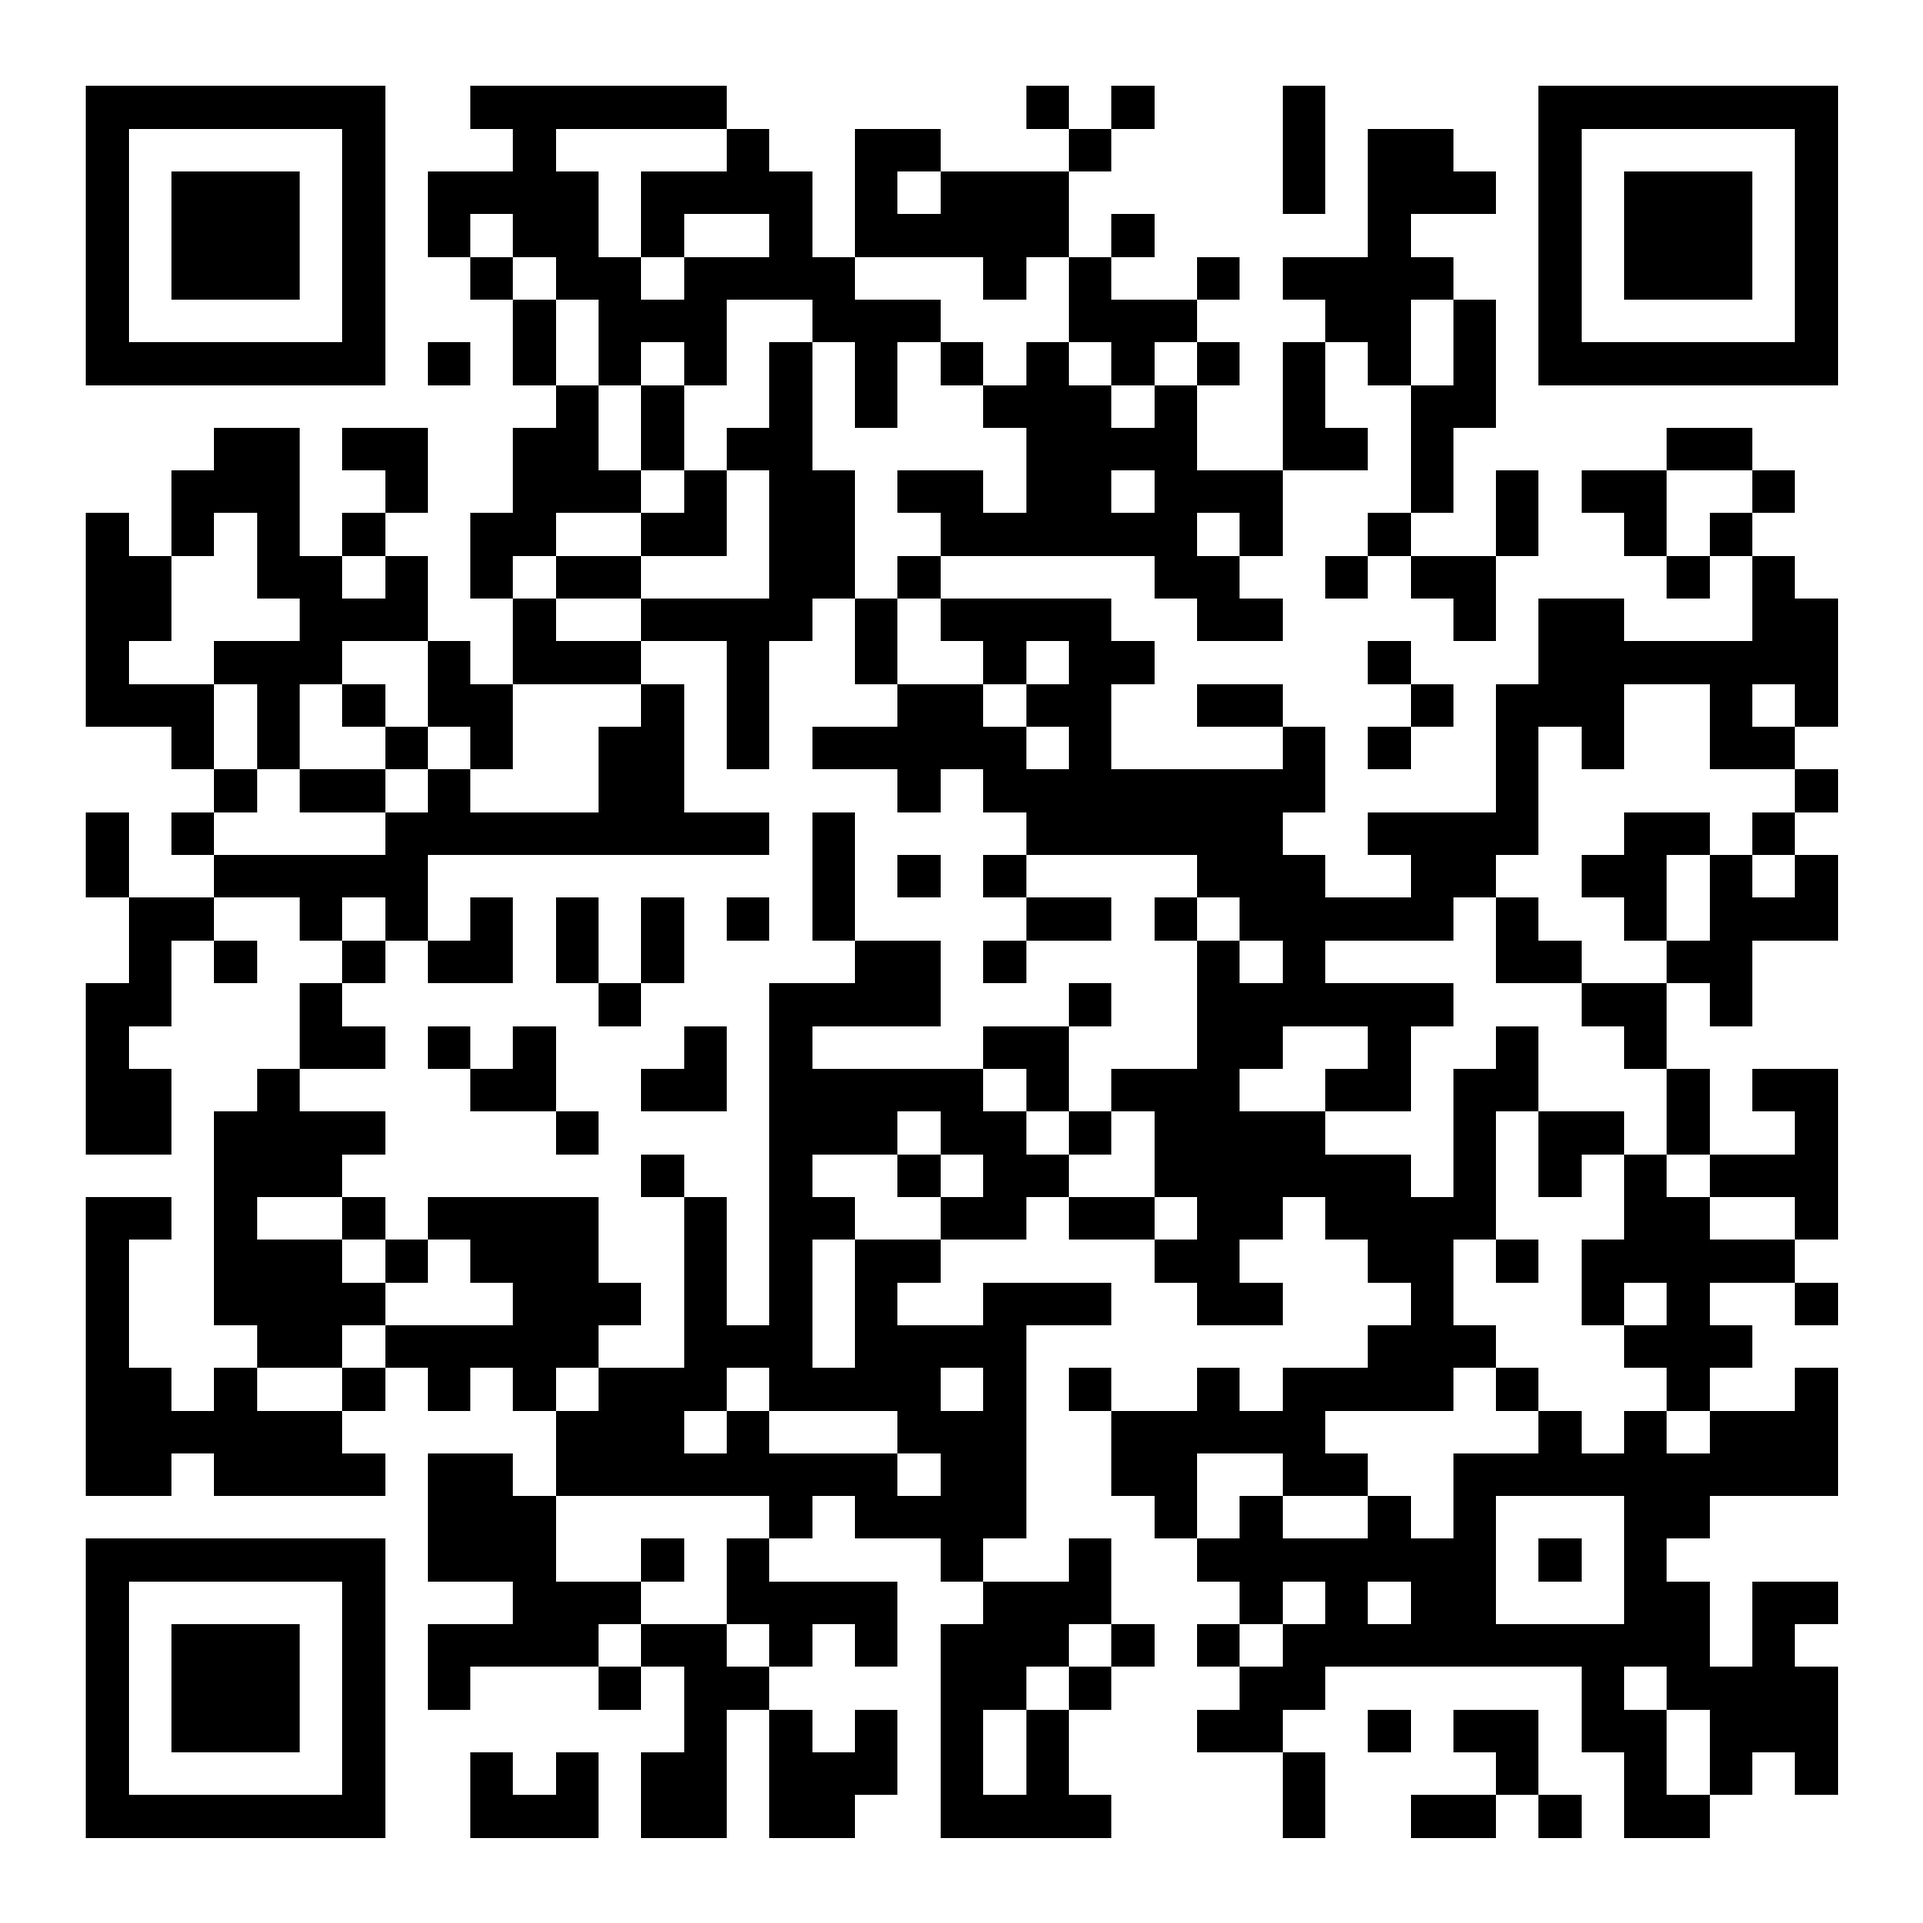
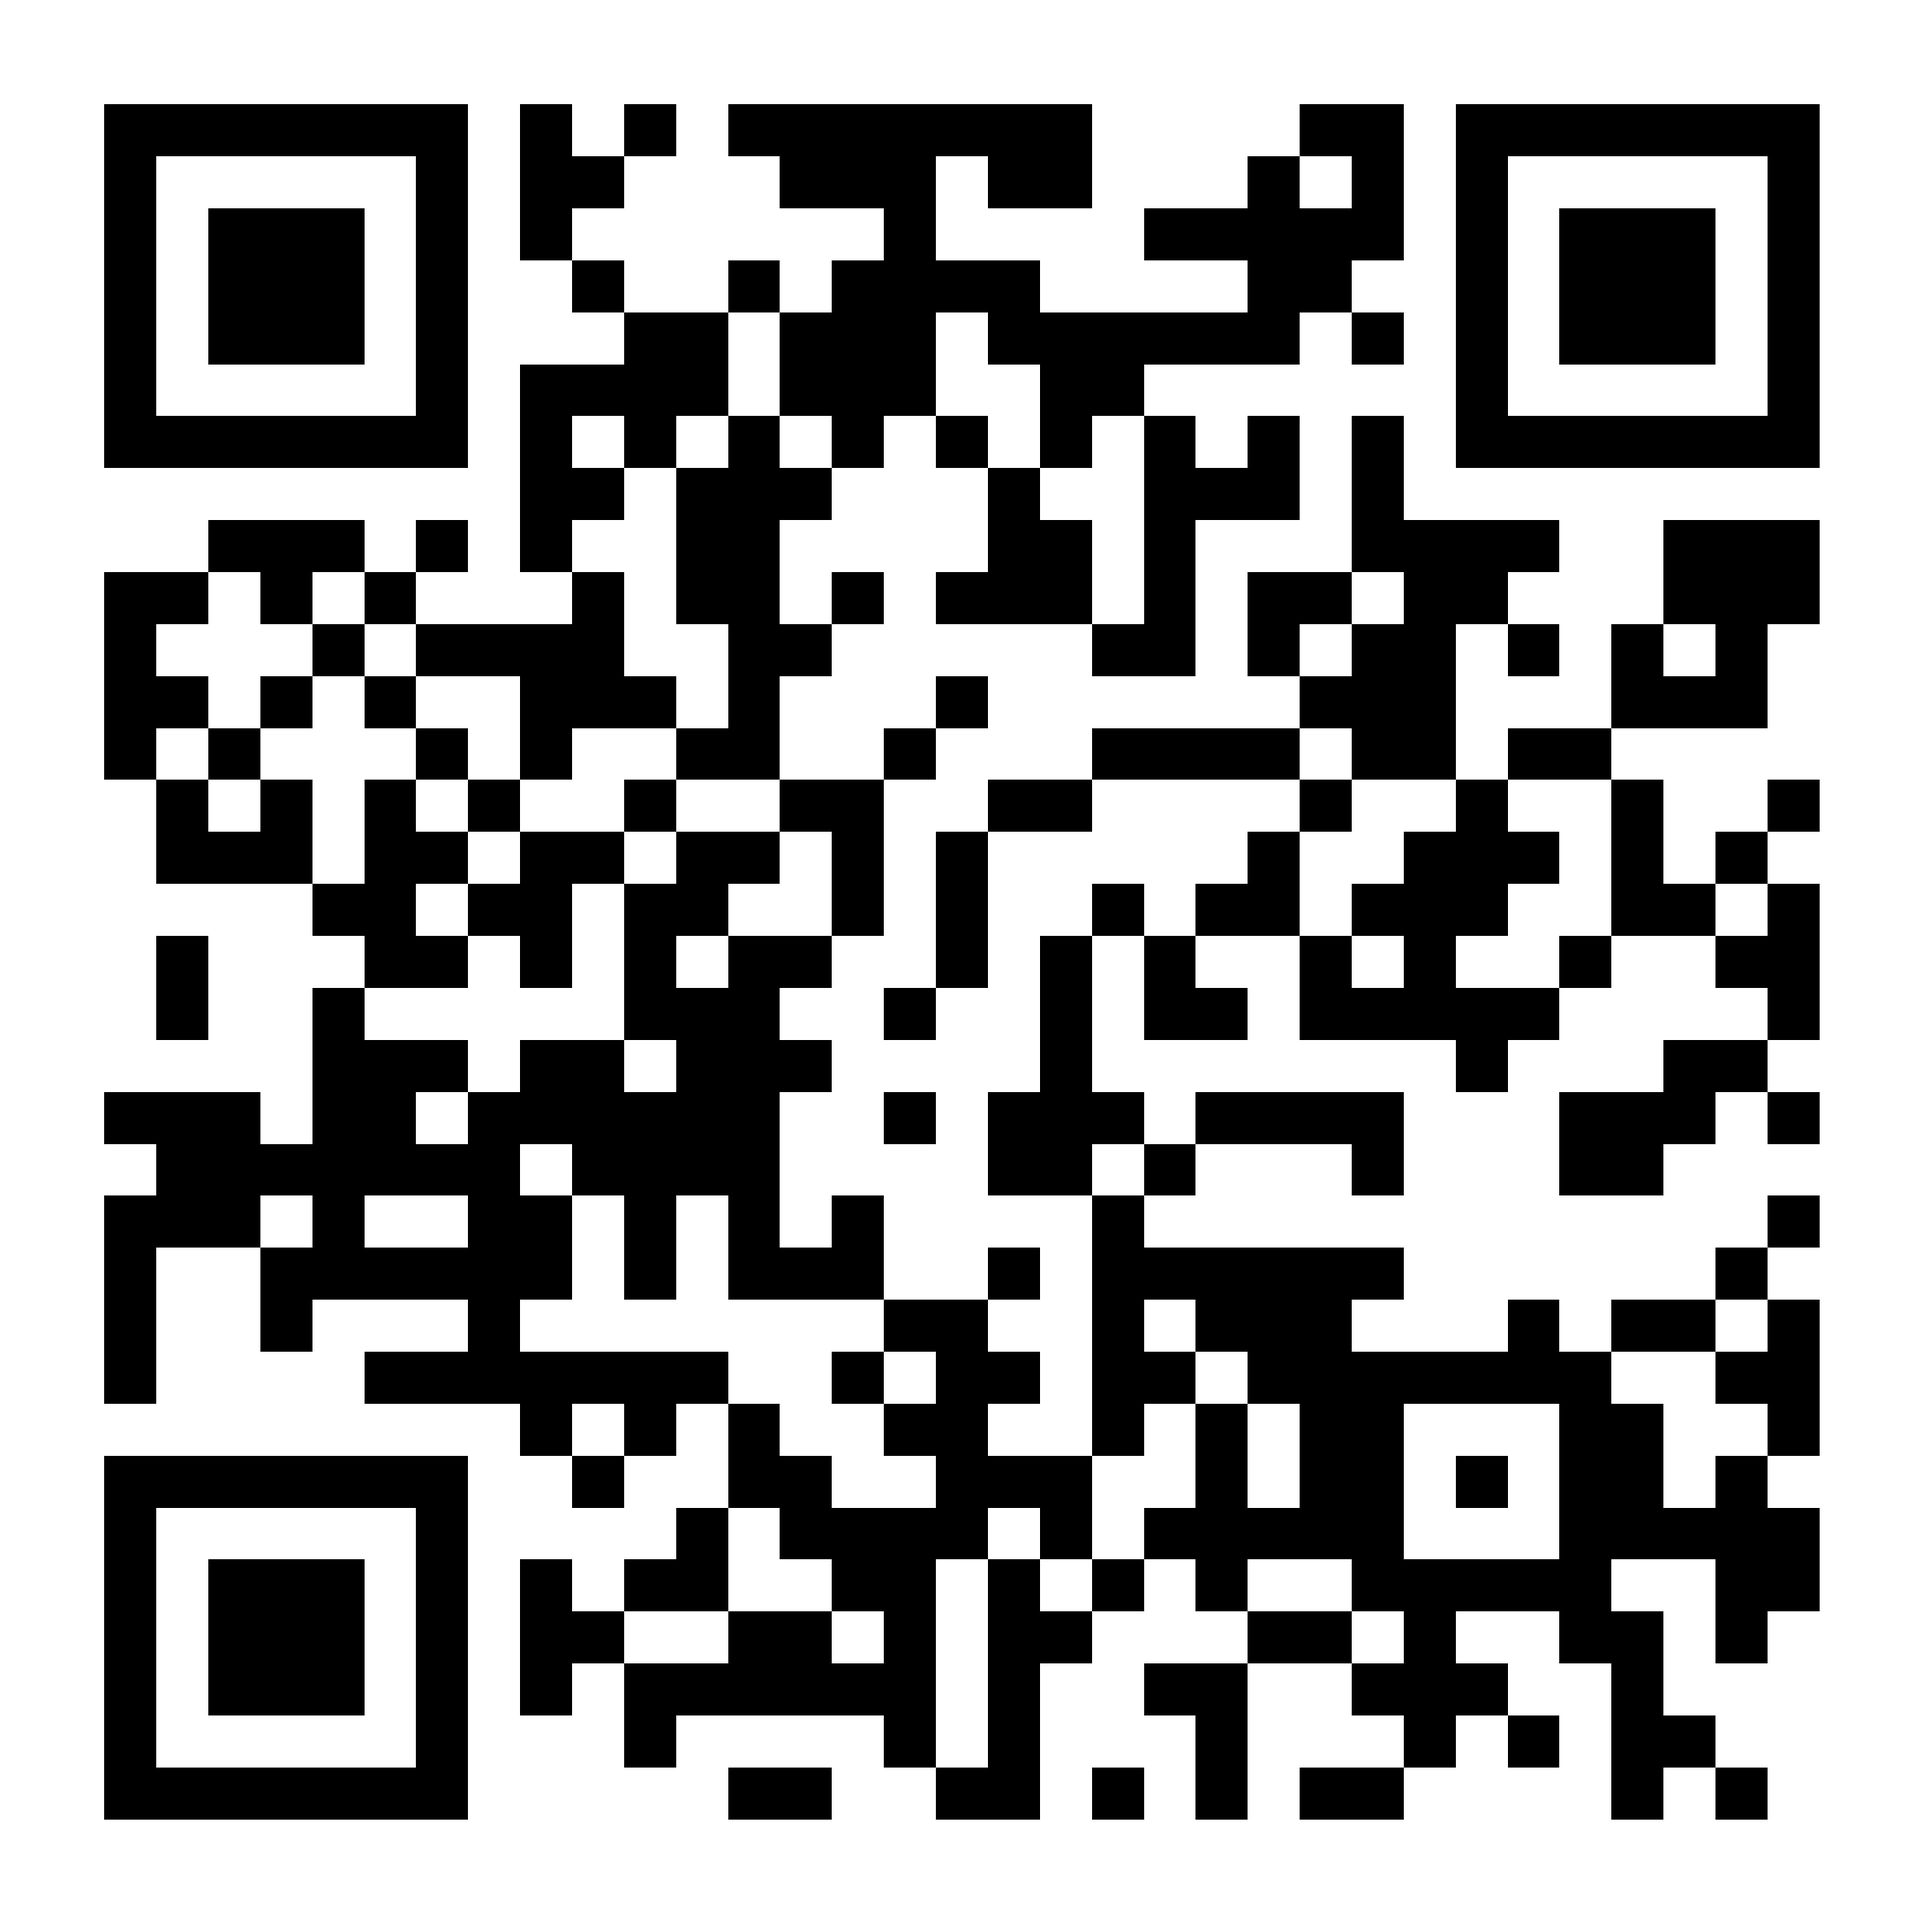
Open the capture modal on the home page
The printed QR codes point at azaudios.com, not the masjid division page, so a
scan was landing on a page with no prompt. Mount the modal on HomePage and open
it on arrival there.

Replaces the single fromPrint flag with AUTO_OPEN_PATHS ('/' and '/amja', plus
any path carrying ?src=), and keeps the delay/scroll path for
/masjid-sound-solutions reached without a tag. That page keeps the modal so the
earlier collateral in toprint/ that decodes to /masjid-sound-solutions still
works.

Attribution is now deliberately separate from open behaviour: '/' opens for
every visitor, but only ?src= or /amja sets event='AMJA', so an untagged home
page visit records as 'Website' instead of inflating the campaign. Source falls
back per route via PATH_SOURCES.

QR generator now targets the root to match what is printed.

Verified: localhost:5173/ opens the modal with the plain "FREE AUDIO
CONSULTATION" eyebrow; /?src=booth shows "AMJA · FREE AUDIO CONSULTATION" and
records event=AMJA source=booth; an untagged submission records
event=Website source=home-page.

diff --git a/src/components/LeadCaptureModal.jsx b/src/components/LeadCaptureModal.jsx
@@ -56,8 +56,21 @@ const TIMELINES = [
 const STORAGE_DISMISSED = 'az_lead_modal_dismissed'
 const STORAGE_PENDING = 'az_pending_leads'
 
-// Organic visitors to the masjid division page should get to read it before
-// anything covers it. Scans (which carry ?src= or land on /amja) open at once.
+// Routes that open the modal on arrival. The printed QR codes point at the site
+// root, so `/` has to be one of them — a scan that lands on a page with no
+// prompt wastes the scan. Anything not listed here (currently just
+// /masjid-sound-solutions reached without a ?src= tag) waits for intent below.
+const AUTO_OPEN_PATHS = ['/', '/amja']
+
+// Fallback attribution per route when the URL carries no ?src= tag.
+const PATH_SOURCES = {
+  '/': 'home-page',
+  '/amja': 'amja-qr',
+  '/masjid-sound-solutions': 'masjid-page'
+}
+
+// Used only for routes outside AUTO_OPEN_PATHS: let the reader get into the
+// page before anything covers it.
 const ORGANIC_DELAY_MS = 14000
 const ORGANIC_SCROLL_RATIO = 0.3
 
@@ -158,11 +171,15 @@ export default function LeadCaptureModal() {
   const firstFieldRef = useRef(null)
 
   const srcParam = new URLSearchParams(search).get('src')
-  const fromPrint = Boolean(srcParam) || pathname === '/amja'
+  // Whether to open on arrival. Separate from attribution below: the home page
+  // opens for everyone, but that does not make every visitor a scan.
+  const openOnArrival = Boolean(srcParam) || AUTO_OPEN_PATHS.includes(pathname)
   // Attribution: honour an explicit ?src=, otherwise record which page the
-  // visitor converted on. Only print traffic gets tagged with the campaign.
-  const source = srcParam || (pathname === '/amja' ? 'amja-qr' : 'masjid-page')
-  const campaign = fromPrint ? CAMPAIGN_LABEL : 'Website'
+  // visitor converted on. Only traffic we can actually attribute to the print
+  // run gets the campaign label — an untagged home page visit is just Website.
+  const source = srcParam || PATH_SOURCES[pathname] || 'direct'
+  const fromCampaign = Boolean(srcParam) || pathname === '/amja'
+  const campaign = fromCampaign ? CAMPAIGN_LABEL : 'Website'
 
   // Open on arrival for scans; wait for intent from organic readers. Also
   // retry any lead that failed to send earlier.
@@ -182,7 +199,7 @@ export default function LeadCaptureModal() {
     let onScroll = null
 
     if (!dismissed) {
-      if (fromPrint) {
+      if (openOnArrival) {
         setOpen(true)
       } else {
         timer = window.setTimeout(() => setOpen(true), ORGANIC_DELAY_MS)
@@ -201,7 +218,7 @@ export default function LeadCaptureModal() {
       if (timer) window.clearTimeout(timer)
       if (onScroll) window.removeEventListener('scroll', onScroll)
     }
-  }, [fromPrint])
+  }, [openOnArrival])
 
   // Lock background scroll and wire Escape while the dialog is up.
   useEffect(() => {
@@ -369,7 +386,9 @@ export default function LeadCaptureModal() {
           <>
             <div className='lead-head'>
               <p className='lead-eyebrow'>
-                {fromPrint ? `${CAMPAIGN_LABEL} · Free audio consultation` : 'Free audio consultation'}
+                {fromCampaign
+                  ? `${CAMPAIGN_LABEL} · Free audio consultation`
+                  : 'Free audio consultation'}
               </p>
               <h2 id='lead-modal-title'>
                 {step === 1 ? (

diff --git a/src/pages/HomePage.jsx b/src/pages/HomePage.jsx
@@ -2,6 +2,7 @@ import { Link } from 'react-router-dom'
 import { Building2, Home, HouseWifi, Mic2, ClipboardCheck, Receipt, Wrench, Headphones, GraduationCap, BookOpen, PhoneCall, PenLine, HardHat, Gauge } from 'lucide-react'
 import SectionHeading from '../components/SectionHeading'
 import MasjidIcon from '../components/MasjidIcon'
+import LeadCaptureModal from '../components/LeadCaptureModal'
 
 const divisions = [
   {
@@ -358,6 +359,15 @@ export default function HomePage() {
           <Link to='/contact' className='button button-primary button-light'>Request a Quote</Link>
         </div>
       </section>
+
+      {/*
+        The printed QR codes point at the site root, so the capture modal has to
+        be here and has to open on arrival — see AUTO_OPEN_PATHS in the
+        component. Note this means every visitor to the home page sees it, not
+        only scans; leads without a ?src= tag are recorded as 'Website' rather
+        than the campaign so attribution stays honest.
+      */}
+      <LeadCaptureModal />
     </>
   )
 }

diff --git a/CLAUDE.md b/CLAUDE.md
@@ -321,20 +321,29 @@ Required: `name`, `email`, `message`. All others optional.
 Two-step modal (`src/components/LeadCaptureModal.jsx`) that captures leads from
 the printed AMJA collateral. Setup docs: `GOOGLE-SHEET-SETUP.md`.
 
-**Every printed QR code encodes `https://azaudios.com/masjid-sound-solutions`**
-— verified by decoding `AMJA_ads.png`, `flyer1.png` and `QR_code.png` in the
-sibling working folder. That is why the modal is mounted on
-`MasjidSoundSolutionsPage`, not on a dedicated landing route. The print also
-promises **"FREE AUDIO CONSULTATION — Scan to schedule"**, so the modal leads
-with the consultation and treats the guide PDF as the bonus. Do not reverse
-that emphasis: the landing page has to deliver what the flyer promised.
+**The printed QR codes point at the site root, `azaudios.com`.** The modal is
+therefore mounted on **`HomePage`** and opens on arrival there — that is the
+page a scan lands on, and a scan landing on a page with no prompt is a wasted
+scan. It is also mounted on `MasjidSoundSolutionsPage` (earlier collateral in
+`toprint/` decodes to `/masjid-sound-solutions`, so those codes keep working)
+and reachable via the `/amja` alias.
 
-`/amja` is an alias for future print runs that want isolated attribution.
+The print promises **"FREE AUDIO CONSULTATION — Scan to schedule"**, so the
+modal leads with the consultation and treats the guide PDF as the bonus. Do not
+reverse that emphasis: the landing page has to deliver what the flyer promised.
 
-**Open behaviour:** immediate when the URL carries `?src=` or the path is
-`/amja` (i.e. scan traffic); for organic visitors it waits for 14 s or 30%
-scroll, so the division page is readable first. Dismissal is remembered per
-session (`sessionStorage`), and a gold pill re-opens it.
+**Open behaviour** — `AUTO_OPEN_PATHS` in the component:
+- `/` and `/amja`, or *any* path carrying `?src=` → opens on arrival
+- `/masjid-sound-solutions` without `?src=` → waits for 14 s or 30% scroll
+
+Because `/` opens for everyone, ordinary visitors to the home page see it too,
+not only scans. Dismissal is remembered per session (`sessionStorage`) and a
+gold pill re-opens it. To spare untagged visitors, remove `'/'` from
+`AUTO_OPEN_PATHS`; they then get the delay/scroll path instead.
+
+Attribution is deliberately separate from open behaviour: `event` is `'AMJA'`
+only when the URL carries `?src=` or the path is `/amja`, so an untagged home
+page visit is recorded as `'Website'` rather than inflating the campaign.
 
 **Fields sent:**
 ```js
